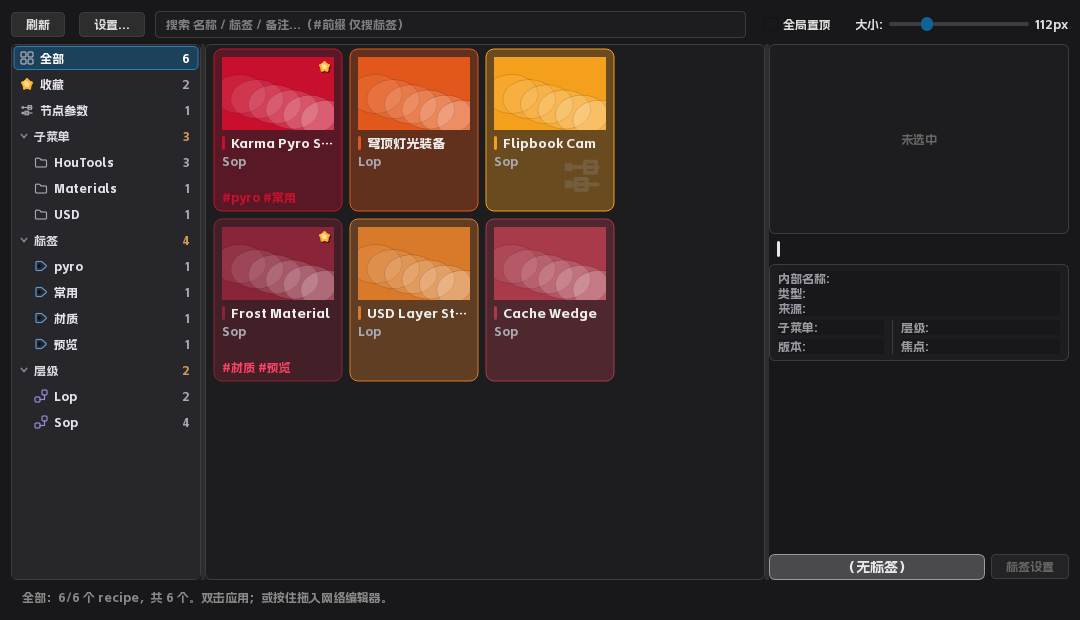
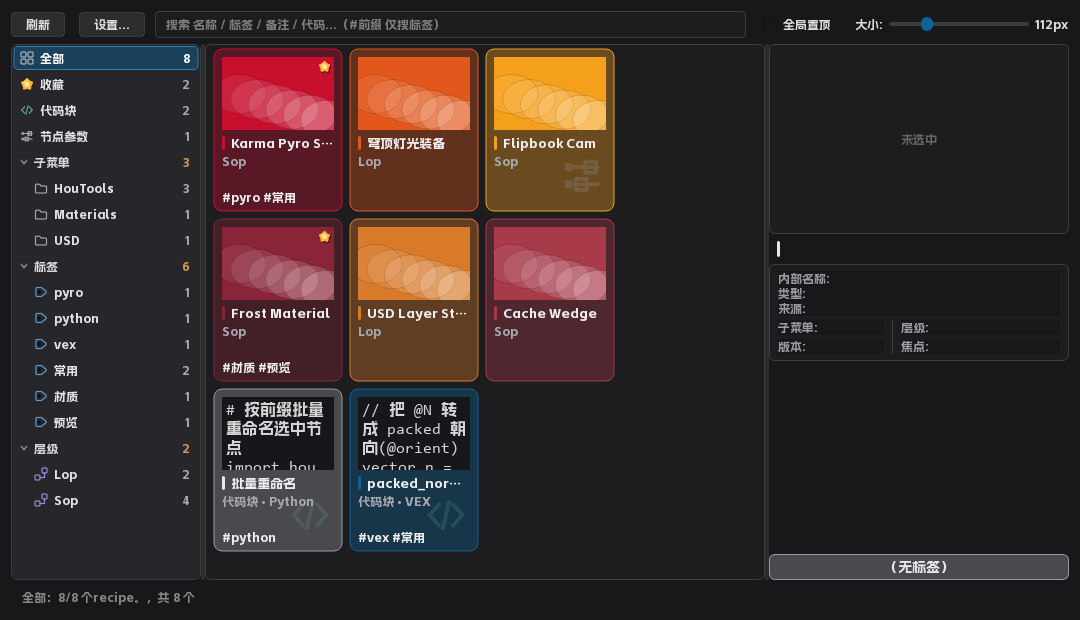
docs: 同步 Recipe Library 代码块/标签颜色/右键入口，轮播截图展示代码卡片

diff --git a/docs/index.html b/docs/index.html
@@ -658,7 +658,7 @@
 
     <a class="slide" href="#recipe-library">
       <img src="about_shots/recipe.png" alt="Recipe Library 界面截图:recipe 卡片网格与预览面板">
-      <div class="slide-cap"><strong>Recipe Library</strong><span>recipes 资产卡片浏览,双击/拖拽入网</span></div>
+      <div class="slide-cap"><strong>Recipe Library</strong><span>recipes 卡片与 VEX/Python 代码块,双击/拖拽入网</span></div>
     </a>
 
   </div>
@@ -819,13 +819,14 @@
 <section id="recipe-library">
   <h2>Recipe Library<span class="zh">recipes 资产库</span></h2>
   <p class="entry">入口:<code>HouTools → Recipe Library</code>(独立窗口,进任务栏)</p>
-  <p>基于 Houdini 22 官方 recipes 的资产面板:卡片网格浏览、树形侧栏过滤、双击/拖拽应用到网络、Markdown 文档、数据导入导出。</p>
+  <p>基于 Houdini 22 官方 recipes 的资产面板:卡片网格浏览、树形侧栏过滤、双击/拖拽应用到网络、VEX/Python 代码块、Markdown 文档、数据导入导出。</p>
   <h3>浏览</h3>
   <ul>
     <li>卡片显示缩略图、标签、版本、节点数,支持自定义主题色(右键「自定义颜色」)与收藏角标。</li>
-    <li>树形侧栏按 全部 / 收藏 / 节点参数 / 子菜单 / 标签 / 网络层级 过滤。</li>
+    <li>标签可自定义颜色(侧栏标签行右键「自定义颜色」),侧栏行、卡片标签行、预览标签栏三处生效。</li>
+    <li>树形侧栏按 全部 / 收藏 / 代码块 / 节点参数 / 子菜单 / 标签 / 网络层级 过滤;右键仅弹菜单,不切换分组。</li>
     <li>搜索框支持 <code>#</code> 前缀只搜标签(如 <code>#pyro</code>),多词 AND 匹配;自定义显示名(支持中文)同步参与搜索。</li>
-    <li>预览缩略图点击放大:滚轮缩放、中键平移、双击或 Esc 关闭;GIF 显示动图,文档中的视频可播放。</li>
+    <li>预览缩略图区域右键可直接 设置缩略图 / 截取缩略图 / 清除缩略图;点击放大:滚轮缩放、中键平移、双击或 Esc 关闭;GIF 显示动图,文档中的视频可播放。</li>
   </ul>
   <h3>应用</h3>
   <ul>
@@ -834,16 +835,23 @@
     <li>应用前做网络层级匹配检查,不匹配时左下角状态栏给出中文提示(如 SOP recipe 进 LOP 网络)。</li>
     <li>node / parm / decoration 预设需先选中目标节点。</li>
   </ul>
+  <h3>代码块</h3>
+  <ul>
+    <li>VEX / Python 代码片段卡片:一卡一文件存 <code>settings/vex_python_lib/</code>(<code>vex/*.h</code>、<code>python/*.py</code>,文件即数据源);内部名 = 文件名,创建后不可改,中文展示名走「自定义显示名」。</li>
+    <li>空白网格区右键「新建代码块」创建(实时查重,重名/非法名禁用确认);卡片缩略图即代码高亮渲染,字号只随卡片高度取档,可读性优先。</li>
+    <li>双击卡片 = 把代码追加到全部选中节点的代码参数(VEX→snippet、Python→python,现有内容非空时空行分隔),整批一个 undo。</li>
+    <li>预览面板为带行号的代码视图(语言/修改时间/行数),右键「编辑代码」;搜索含代码全文。</li>
+  </ul>
   <h3>元数据与文档</h3>
   <ul>
     <li>库只加载「设置 ▸ 库目录」配置的用户文件夹(递归扫描 .hda),出厂库 / Labs 一律不显示;库启动时自动安装,Tab 菜单里的 session tool 从会话开始可用。</li>
-    <li>自定义显示名、标签、颜色、收藏存 <code>settings/recipelib.json</code>,缩略图存 <code>settings/recipe_thumbs/</code>(相对路径存储,项目挪动不失效)。</li>
-    <li>每条 recipe 可配 Markdown 文档(存 <code>settings/recipe_docs/</code>),确认/取消模式编辑,渲染支持 GIF 动图与视频;主面板有文档时直接渲染文档,无文档回退官方备注。</li>
+    <li>自定义显示名、标签(可自定义颜色)、颜色、收藏存 <code>settings/recipelib.json</code>,缩略图存 <code>settings/recipe_thumbs/</code>(相对路径存储,项目挪动不失效)。</li>
+    <li>每条 recipe 可配 Markdown 文档(存 <code>settings/recipe_docs/</code>),确认/取消模式编辑,渲染支持 GIF 动图与视频;主面板有文档时直接渲染文档,无文档回退官方备注;文档/备注渲染区右键「编辑文档」。</li>
     <li>设置缩略图支持两种来源:右键「设置缩略图」选图后框选裁剪(比例与卡片锁定),或「截取缩略图」屏幕框选(所有显示器全屏遮罩,选框可跨屏拖拽,混合 DPI 按各屏取像)。</li>
   </ul>
   <h3>数据交换</h3>
   <ul>
-    <li>「设置 ▸ 数据」导出/导入 zip 交换包(元数据 + 缩略图 + 文档 + HDA),打包带走、分享。</li>
+    <li>「设置 ▸ 数据」导出/导入 zip 交换包(元数据 + 缩略图 + 文档 + HDA + 代码块),打包带走、分享。</li>
     <li>导入按内部名合并:包内覆盖同名、本地独有保留、收藏取并集;与本地同名定义的 HDA 整文件跳过(避免同名定义二选一的不可预期)。</li>
   </ul>
 </section>

diff --git a/tests/gen_about_shots.py b/tests/gen_about_shots.py
@@ -19,6 +19,12 @@ import time
 from pathlib import Path
 
 os.environ.setdefault("QT_QPA_PLATFORM", "offscreen")
+# offscreen 平台用 QBasicFontDatabase，只认 QT_QPA_FONTDIR 指向的字体目录，
+# 缺省路径不存在时私有字体缺字形（如 •）无系统回退、渲染成豆腐块——指到
+# 系统字体目录，回退行为贴近真实会话（真实会话同样靠系统字体回退补 •）
+os.environ.setdefault("QT_QPA_FONTDIR",
+                      os.path.join(os.environ.get("WINDIR", r"C:\Windows"),
+                                   "Fonts"))
 
 ROOT = Path(__file__).resolve().parents[1]
 sys.path.insert(0, str(ROOT / "python3.13libs"))
@@ -212,11 +218,13 @@ def shot_recipe(tmp: Path):
     from houtools.core.settings import JsonStore
     from houtools.recipelib import metadata as rl_meta
     from houtools.recipelib import browser as rl_browser
+    from houtools.recipelib import codeblock as rl_code
     from houtools.recipelib import store as rl_store
 
     store = JsonStore("_about_shots_rl.json", defaults=dict(rl_meta._DEFAULTS))
     thumbs = tmp / "rl_thumbs"
     thumbs.mkdir(parents=True, exist_ok=True)
+    codelib = tmp / "vex_python_lib"
 
     infos = [
         rl_store.RecipeInfo(name="mahx::karma_pyro_setup",
@@ -247,7 +255,8 @@ def shot_recipe(tmp: Path):
                       return_value=["X:/demo_lib"]), \
          patch.object(rl_browser.store, "list_recipes",
                       side_effect=lambda lib_dirs=None:
-                          list(infos) if lib_dirs else []):
+                          list(infos) if lib_dirs else []), \
+         patch.object(rl_code, "CODELIB_ROOT", codelib):
         for info, color in zip(infos, palette):
             pm = QtGui.QPixmap(256, 169)
             pm.fill(QtGui.QColor(color))
@@ -265,6 +274,30 @@ def shot_recipe(tmp: Path):
         rl_meta.set_display_name(infos[1].name, "穹顶灯光装备")
         rl_meta.set_tags(infos[0].name, ["pyro", "常用"])
         rl_meta.set_tags(infos[3].name, ["材质", "预览"])
+
+        # 代码块打桩:两个语言各一块(卡片缩略图 = 代码高亮渲染),
+        # 展示侧栏「代码块」段与代码卡片
+        rl_code.save_code("packed_normal", "vex", """\
+// 把 @N 转成 packed 朝向(@orient)
+vector n = normalize(v@N);
+vector up = {0, 1, 0};
+if (abs(dot(n, up)) > 0.99) up = {1, 0, 0};
+vector axis = cross(up, n);
+p@orient = quaternion(axis, n);
+""")
+        rl_code.save_code("batch_rename", "python", """\
+# 按前缀批量重命名选中节点
+import hou
+
+prefix = "sim_"
+for node in hou.selectedNodes():
+    node.setName(prefix + node.name())
+print("renamed %d nodes" % len(hou.selectedNodes()))
+""")
+        rl_meta.set_display_name("batch_rename", "批量重命名")
+        rl_meta.set_tags("packed_normal", ["vex", "常用"])
+        rl_meta.set_tags("batch_rename", ["python"])
+        rl_meta.set_color("packed_normal", "#0d6399")
 
         win = rl_browser._RecipeLibraryWindow()
         win.resize(SHOT_W, SHOT_H)
